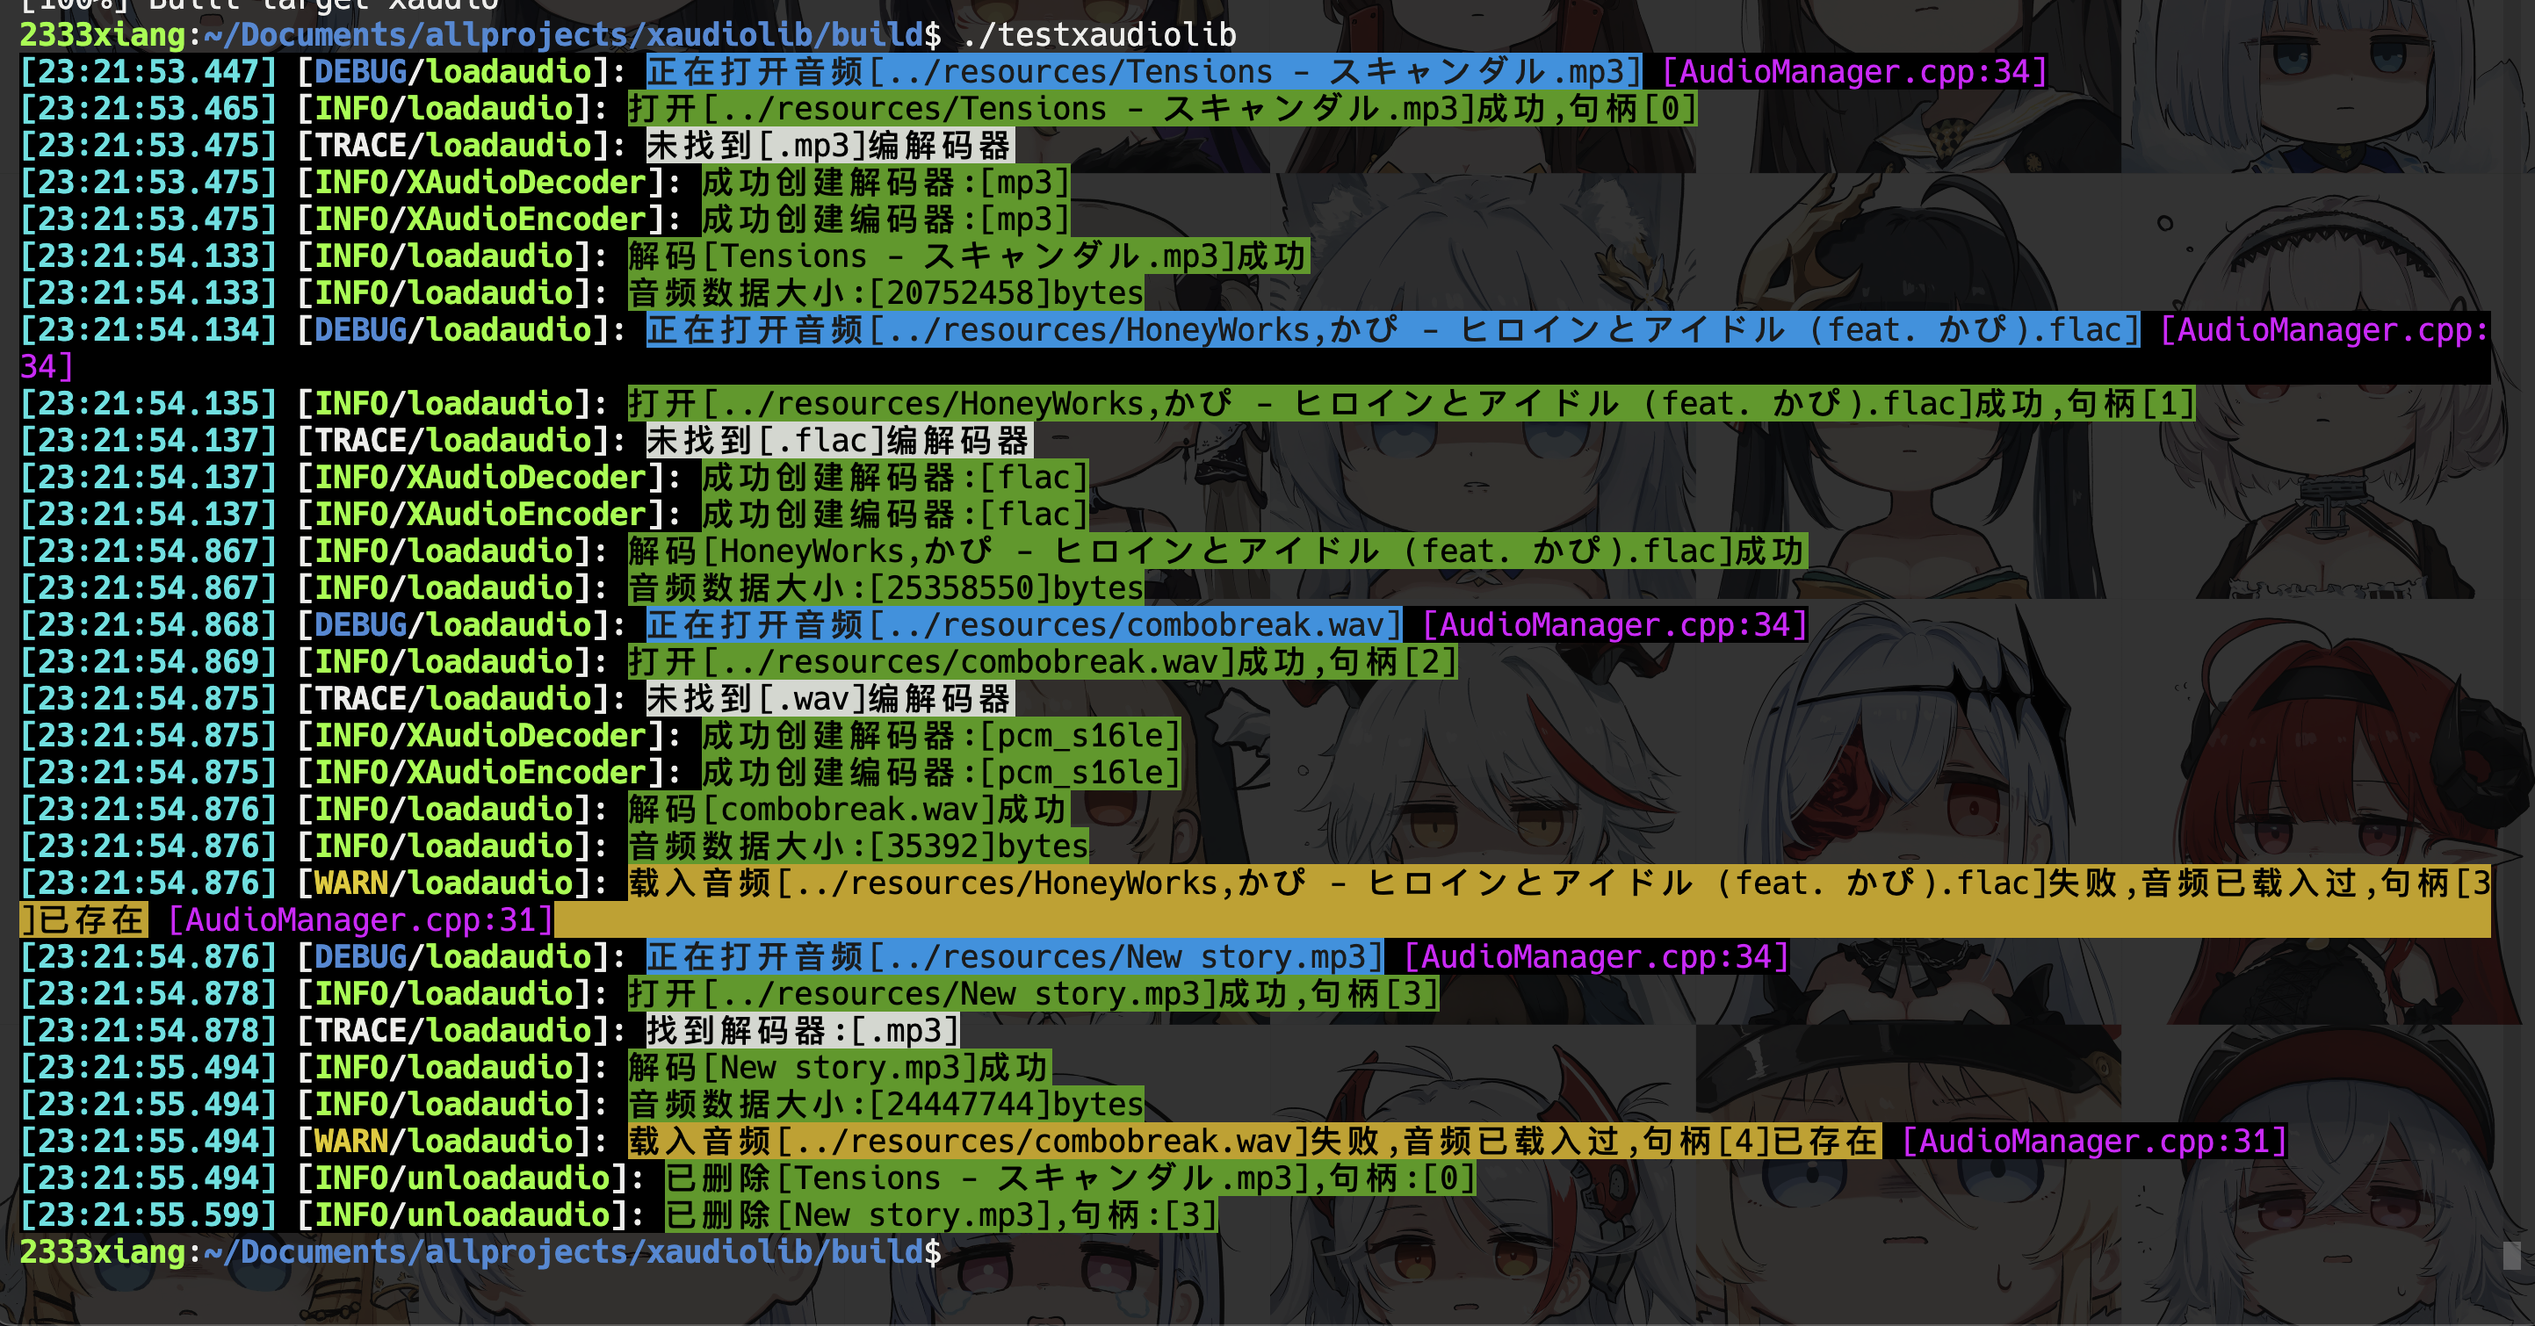
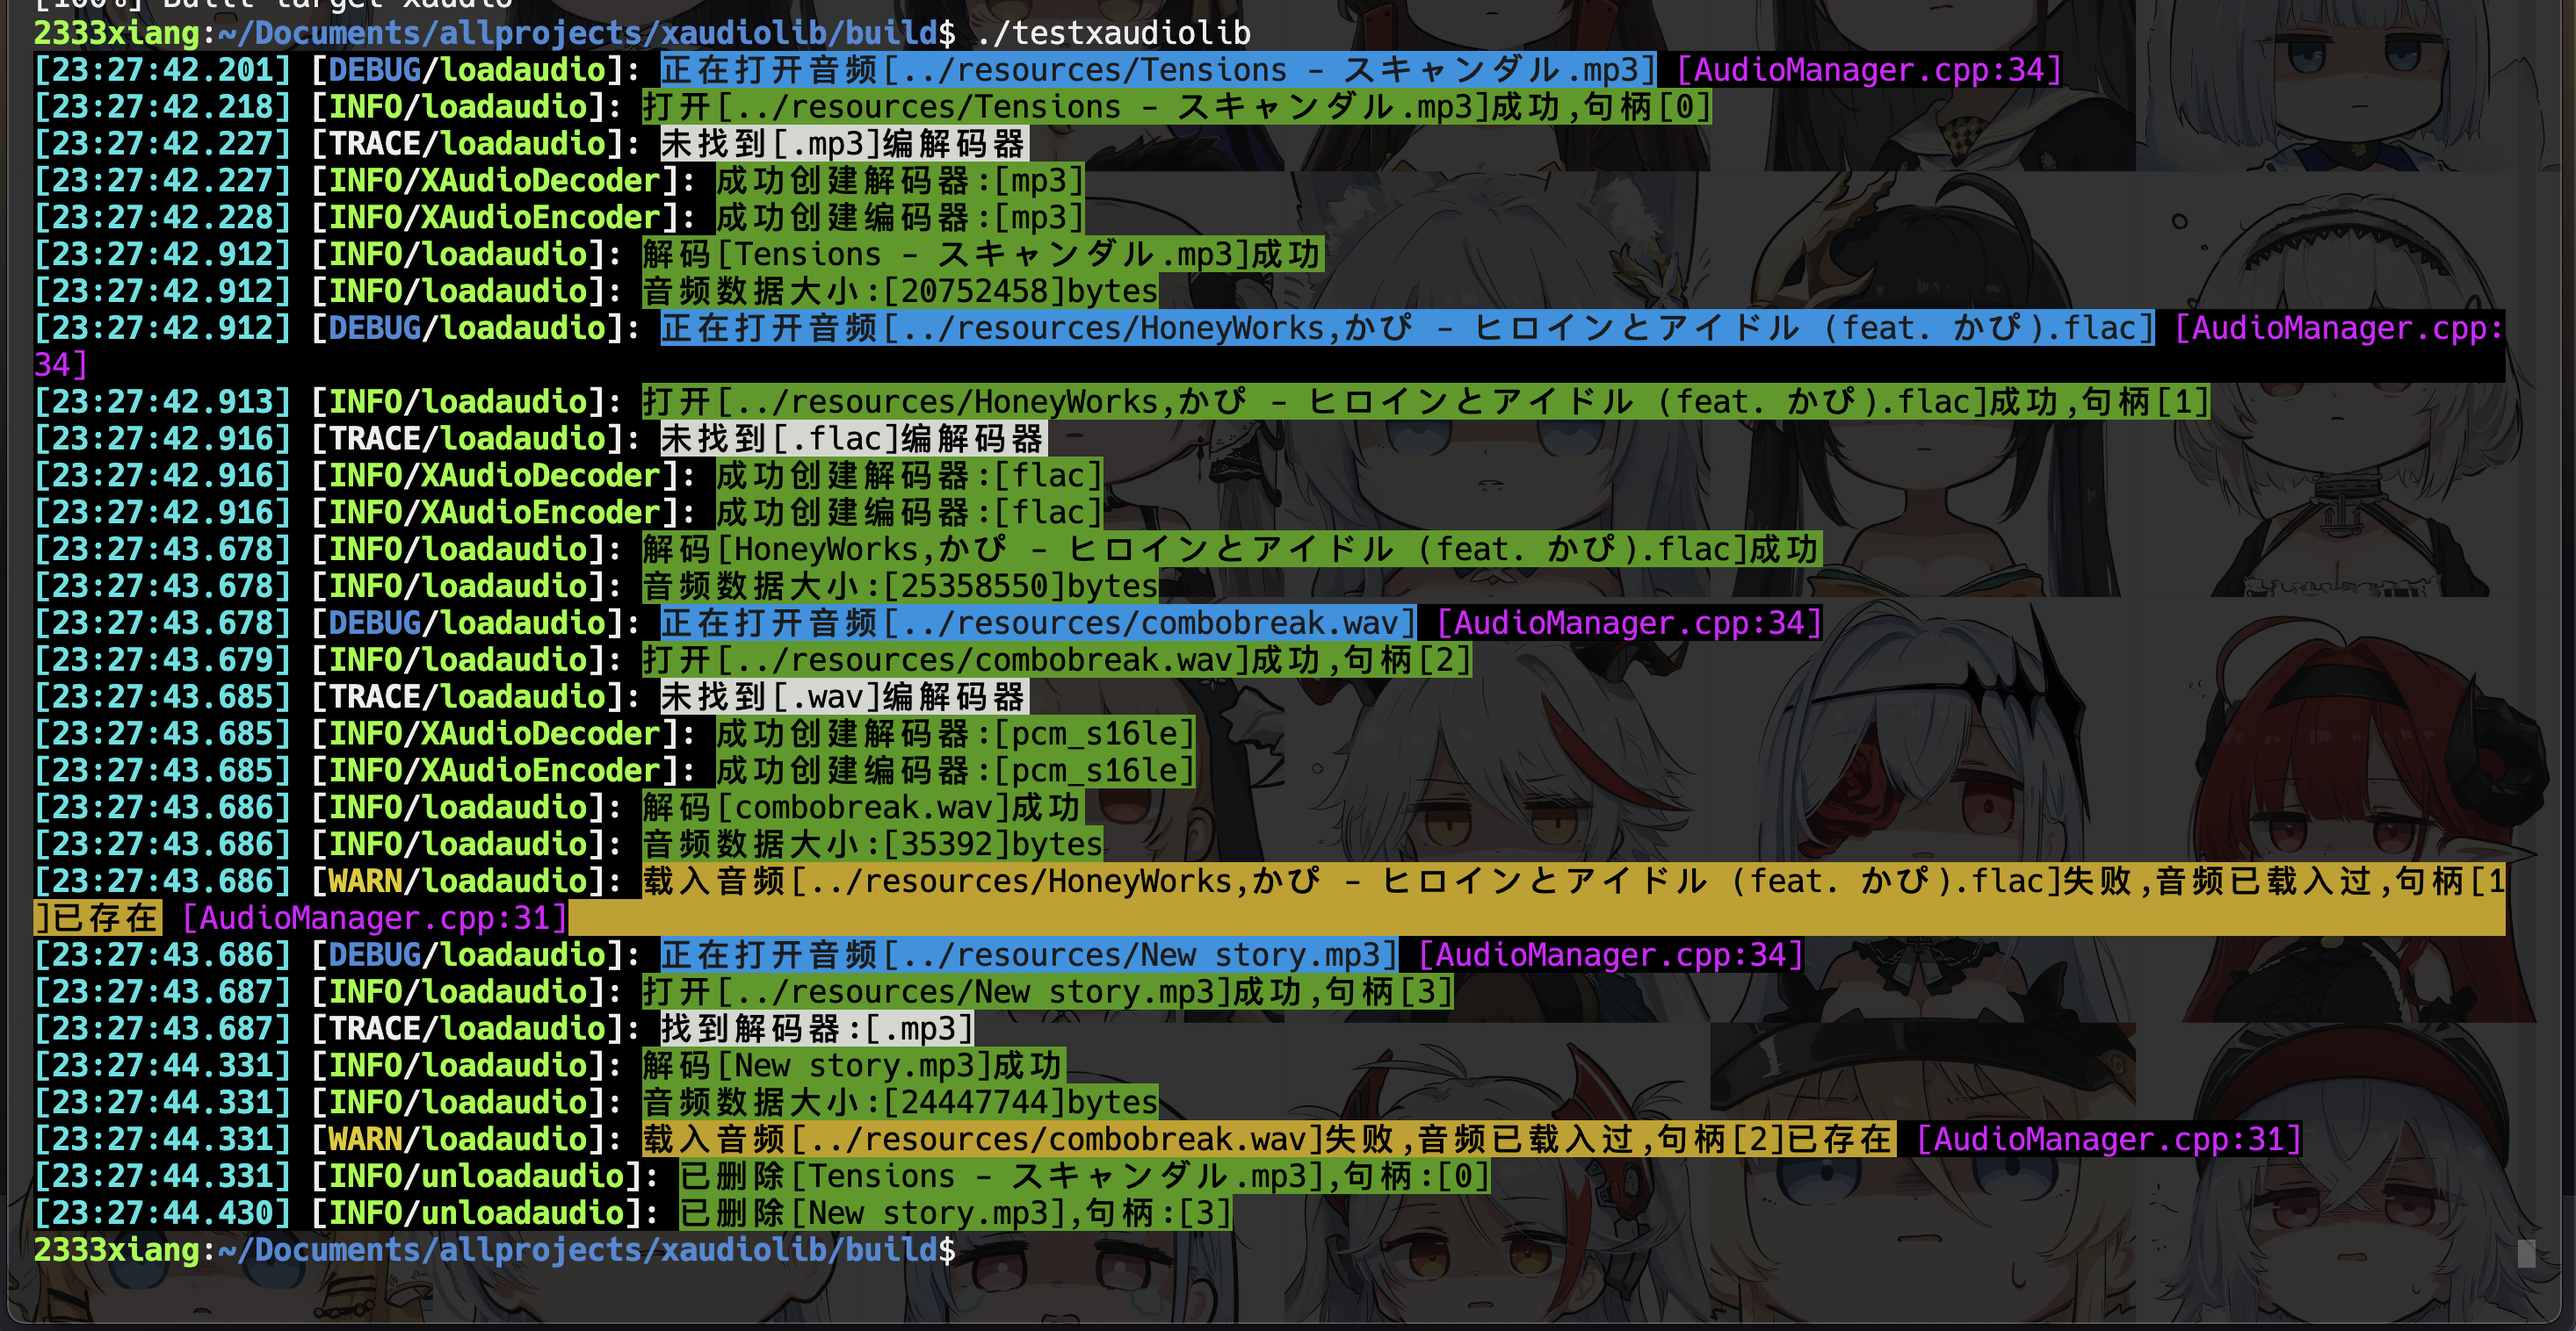
修复提示问题

diff --git a/src/engin/AudioManager.cpp b/src/engin/AudioManager.cpp
@@ -28,7 +28,7 @@ int XAudioManager::loadaudio(const std::string &audio) {
     auto handelit = handles.find(name);
     if (handelit != handles.end()) {
         LOG_WARN("载入音频[" + audio + "]失败,音频已载入过,句柄[" +
-                 std::to_string(id) + "]已存在");
+                 std::to_string(handelit->second) + "]已存在");
         return id;
     } else {
         LOG_DEBUG("正在打开音频[" + audio + "]");
